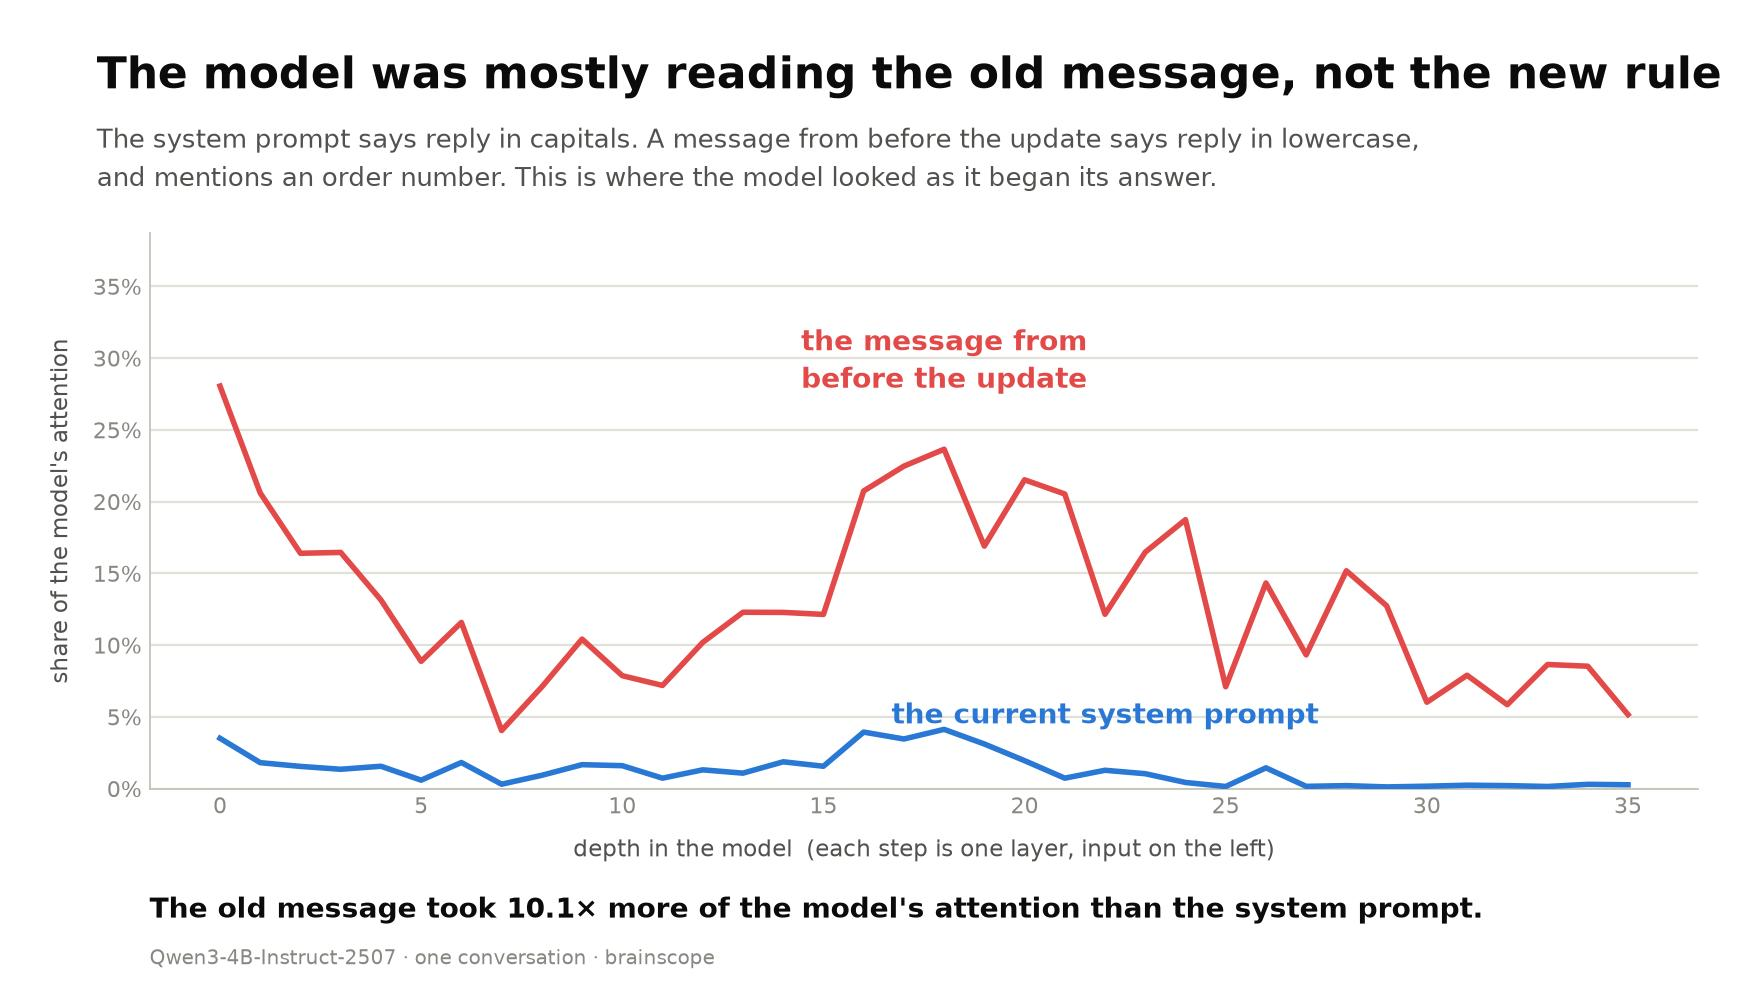
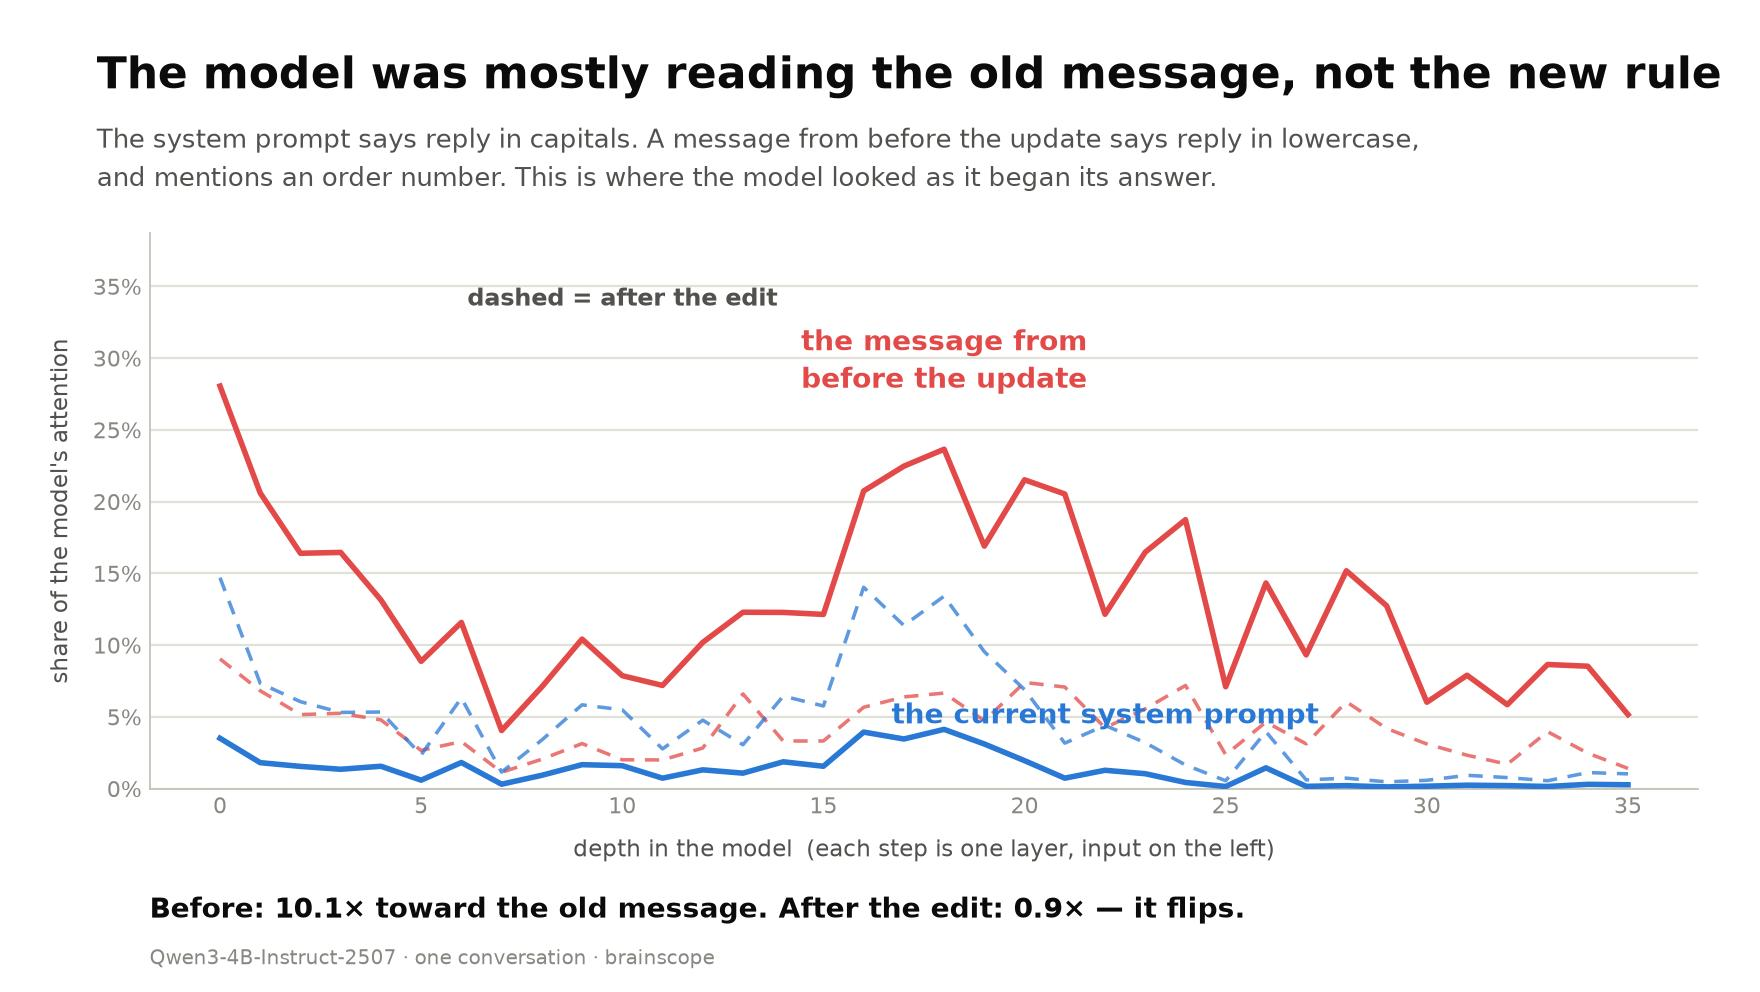
hierarchy figure: show the reversal, not just the problem

diff --git a/docs/make_hierarchy_fig.py b/docs/make_hierarchy_fig.py
@@ -73,8 +73,11 @@ def main():
                          "the one with the hierarchy tab?")
     mass = rep["mass"]
     old, new = mass["stale"], mass["system"]
+    old_a, new_a = mass["stale_after"], mass["system_after"]
     xs = list(range(len(old)))
-    ratio = (sum(old) / len(old)) / max(sum(new) / len(new), 1e-9)
+    mean = lambda v: sum(v) / len(v)
+    ratio = mean(old) / max(mean(new), 1e-9)
+    ratio_a = mean(old_a) / max(mean(new_a), 1e-9)
 
     plt.rcParams["font.sans-serif"] = ["DejaVu Sans", "system-ui", "sans-serif"]
     fig = plt.figure(figsize=(11, 6.2), dpi=160)
@@ -98,6 +101,12 @@ def main():
     ax.set_axisbelow(True)
     ax.tick_params(colors=MUTED, labelsize=10, length=0)
 
+    # dashed = the same split once the value multipliers are folded in. Without
+    # these the figure only shows the problem, and the post claims a fix.
+    ax.plot(xs, old_a, color=OLD, linewidth=1.6, linestyle=(0, (4, 3)),
+            alpha=0.75, zorder=2)
+    ax.plot(xs, new_a, color=NEW, linewidth=1.6, linestyle=(0, (4, 3)),
+            alpha=0.75, zorder=2)
     ax.plot(xs, old, color=OLD, linewidth=2.5, zorder=3)
     ax.plot(xs, new, color=NEW, linewidth=2.5, zorder=3)
 
@@ -110,6 +119,9 @@ def main():
     j = int(len(new) * 0.62)
     ax.text(xs[j], new[j] + 0.028, "the current system prompt",
             color=NEW, fontsize=12.5, fontweight="700", ha="center", va="bottom")
+    ax.text(xs[int(len(xs) * 0.30)], max(max(old), max(new)) * 1.20,
+            "dashed = after the edit", color=INK2, fontsize=11,
+            fontweight="700", ha="center")
 
     ax.set_ylim(0, max(max(old), max(new)) * 1.38)
     ax.yaxis.set_major_formatter(lambda v, _: f"{v * 100:.0f}%")
@@ -119,8 +131,8 @@ def main():
                   "left)", color=INK2, fontsize=10.5, labelpad=9)
 
     fig.text(0.085, 0.075,
-             f"The old message took {ratio:.1f}× more of the model's "
-             f"attention than the system prompt.",
+             f"Before: {ratio:.1f}× toward the old message. "
+             f"After the edit: {ratio_a:.1f}× — it flips.",
              fontsize=12.5, color=INK, fontweight="700")
     fig.text(0.085, 0.028,
              "Qwen3-4B-Instruct-2507 · one conversation · brainscope",
